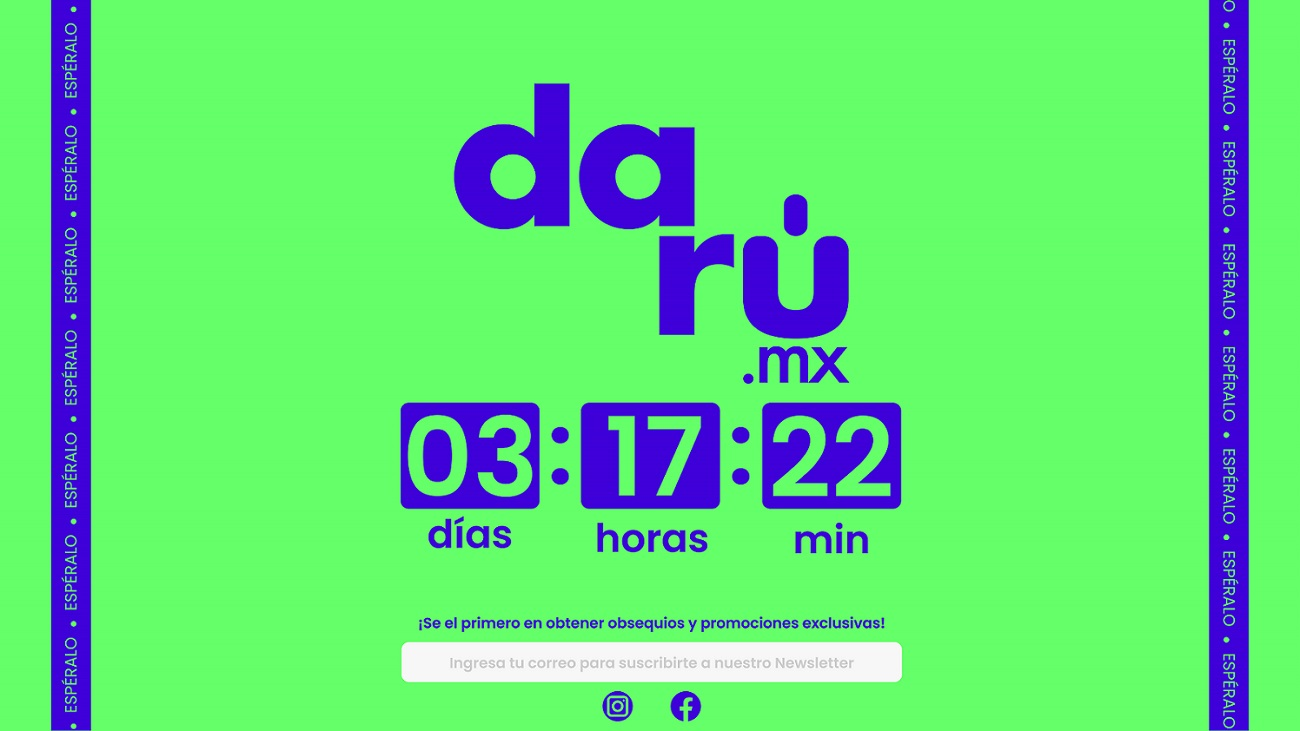
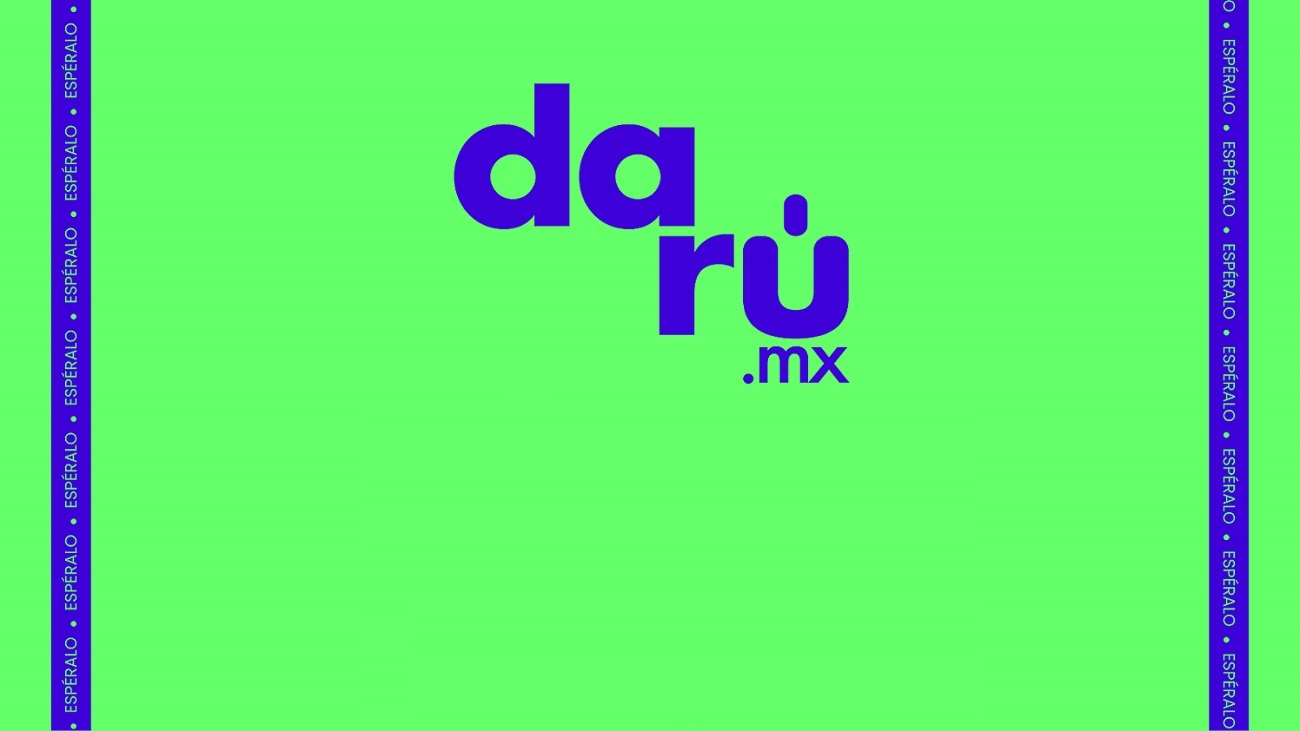
Shop: Comming Soon

Changed region(s): [[0.3077, 0.5417, 0.7077, 0.7825], [0.3077, 0.8427, 0.7077, 0.9932]]

diff --git a/src/app/@pages/others/coming-soon/coming-soon.component.html b/src/app/@pages/others/coming-soon/coming-soon.component.html
@@ -1,61 +1,62 @@
-<!-- <div class="soon" style="background-image: url(assets/images/backgrounds/daru_espera_1.jpg)"> -->
+<div class="soon" style="background-image: url(assets/images/backgrounds/daru_espera_2.jpg)">
 
-<div class="soon">
-  <div class="container">
-    <div class="row">
-      <div class="col-md-12 col-lg-12">
-        <div class="soon-content text-center">
-          <div class="soon-content-wrapper">
-            <br class="mt-2 mb-3 mt-md-3">
-            <br class="mt-2 mb-3 mt-md-3">
-            <br class="mt-2 mb-3 mt-md-3">
-            <br class="mt-2 mb-3 mt-md-3">
-            <br class="mt-2 mb-3 mt-md-3">
-            <br class="mt-2 mb-3 mt-md-3">
-
-
-            <img src="assets/images/logo-icon.png" alt="Logo" class="soon-logo mx-auto">
-            <!-- <h1 class="soon-title">Proximamente...</h1> -->
-            <app-count-down until="2023-05-01" format="DHMS" wrap="coming-countdown countdown-separator">
-            </app-count-down>
-
-            <br class="mt-2 mb-3 mt-md-3">
-            <br class="mt-2 mb-3 mt-md-3">
-            <br class="mt-2 mb-3 mt-md-3">
-            <br class="mt-2 mb-3 mt-md-3">
-            <!-- <p>We are currently working on an awesome new site. Stay tuned for more information.
+  <div class="soon">
+    <div class="container">
+      <div class="row">
+        <div class="col-md-12 col-lg-12">
+          <div class="soon-content text-center">
+            <div class="soon-content-wrapper">
+              <br class="mt-2 mb-3 mt-md-3">
+              <br class="mt-2 mb-3 mt-md-3">
+              <br class="mt-2 mb-3 mt-md-3">
+              <br class="mt-2 mb-3 mt-md-3">
+              <br class="mt-2 mb-3 mt-md-3">
+              <br class="mt-2 mb-3 mt-md-3">
+              <br class="mt-2 mb-3 mt-md-3">
+              <br class="mt-2 mb-3 mt-md-3">
+              <br class="mt-2 mb-3 mt-md-3">
+              <br class="mt-2 mb-3 mt-md-3">
+              <br class="mt-2 mb-3 mt-md-3">
+              <!-- <img src="assets/images/logo-icon.png" alt="Logo" class="soon-logo mx-auto">
+            <h1 class="soon-title">Proximamente...</h1> -->
+              <app-count-down until="2023-10-01" format="DHMS" wrap="coming-countdown countdown-separator">
+              </app-count-down>
+              <br class="mt-2 mb-3 mt-md-3">
+              <!-- <p>We are currently working on an awesome new site. Stay tuned for more information.
               Subscribe to our newsletter to stay updated on our progress.</p> -->
-            <form action="#">
-              <div class="input-group mb-5">
-                <input type="email" class="form-control bg-transparent"
-                  placeholder="Tu direccion de Correo Electr&oacute;nico" required>
-                <div class="input-group-append">
-                  <button class="btn btn-outline-primary-2" type="submit">
-                    <span>Subscribete!!!</span>
-                    <i class="icon-long-arrow-right"></i>
-                  </button>
+              <form (ngSubmit)="onSubmit()" [formGroup]="formData">
+                <div class="input-group mb-5">
+                  <input type="email" name="email" formControlName="email" class="form-control bg-transparent"
+                    placeholder="Correo Electr&oacute;nico" required>
+                  <div class="input-group-append">
+                    <button class="btn btn-success btn-round" type="submit" [disabled]="!formData.valid">
+                      <span>Subscribete!!!</span>
+                      <i class="icon-long-arrow-right"></i>
+                    </button>
+                  </div>
                 </div>
+              </form>
+              <div class="social-icons justify-content-center mb-0">
+                <a class="social-icon" style="background-color: #3b5998; color: white;" href="javascript:;">
+                  <i class="icon-facebook-f"></i>
+                </a>
+                <a class="social-icon" style="background-color: #55acee; color: white;" href="javascript:;"><i
+                    class="icon-twitter"></i>
+                </a>
+                <a class="social-icon" style="background-color: #ac2bac; color: white;" href="javascript:;"><i
+                    class="icon-instagram"></i>
+                </a>
+                <a class="social-icon" style="background-color: #ed302f; color: white;" href="javascript:;"><i
+                    class="icon-youtube"></i>
+                </a>
+                <a class="social-icon" style="background-color: #c61118; color: white;" href="javascript:;"><i
+                    class="icon-pinterest"></i>
+                </a>
               </div>
-            </form>
-            <div class="social-icons justify-content-center mb-0">
-              <a class="social-icon" style="background-color: #3b5998; color: white;" href="javascript:;">
-                <i class="icon-facebook-f"></i>
-              </a>
-              <a class="social-icon" style="background-color: #55acee; color: white;" href="javascript:;"><i class="icon-twitter"></i>
-              </a>
-              <a class="social-icon" style="background-color: #ac2bac; color: white;" href="javascript:;"><i
-                  class="icon-instagram"></i>
-              </a>
-              <a class="social-icon" style="background-color: #ed302f; color: white;" href="javascript:;"><i class="icon-youtube"></i>
-              </a>
-              <a class="social-icon" style="background-color: #c61118; color: white;" href="javascript:;"><i
-                  class="icon-pinterest"></i>
-              </a>
             </div>
           </div>
         </div>
       </div>
     </div>
+    <!-- <div class="soon-bg bg-image"></div> -->
   </div>
-  <!-- <div class="soon-bg bg-image"></div> -->
-</div>

diff --git a/src/app/@pages/others/coming-soon/coming-soon.component.ts b/src/app/@pages/others/coming-soon/coming-soon.component.ts
@@ -1,17 +1,66 @@
 import { Component, OnInit } from '@angular/core';
+import { FormBuilder, FormGroup, Validators } from '@angular/forms';
+import { IMail } from '@core/interfaces/mail.interface';
+import { MailService } from '@core/services/mail.service';
+import { infoEventAlert } from '@shared/alert/alerts';
+import { TYPE_ALERT } from '@shared/alert/values.config';
 
 @Component({
-	selector: 'pages-coming-soon',
-	templateUrl: './coming-soon.component.html',
-	styleUrls: ['./coming-soon.component.scss']
+  selector: 'pages-coming-soon',
+  templateUrl: './coming-soon.component.html',
+  styleUrls: ['./coming-soon.component.scss']
 })
 
 export class ComingSoonPageComponent implements OnInit {
+  formData: FormGroup;
 
-	constructor() {
+  constructor(
+    private formBuilder: FormBuilder,
+    private mailService: MailService
+  ) {
 
-	}
+  }
 
-	ngOnInit(): void {
-	}
+  ngOnInit(): void {
+    this.formData = this.formBuilder.group({
+      email: ['', [Validators.required, Validators.email, this.customEmailValidator]]
+    });
+  }
+
+  customEmailValidator(control) {
+    const email = control.value;
+    if (!email) {
+      return null;
+    }
+    const regex = /^[a-zA-Z0-9._%+-]+@[a-zA-Z0-9.-]+\.[a-zA-Z]{2,4}$/;
+    return regex.test(email) ? null : { invalidEmail: true };
+  }
+
+  onSubmit() {
+    if (!this.formData.valid) {
+      infoEventAlert('Es necesario un correo electrónico.', '');
+      return;
+    }
+
+    const email = this.formData.controls.email.value;
+    const receiptEmailInt = 'marketplace@daru.mx';
+    const subjectInt = 'Dar de Alta a Usuario';
+    const html = `Agregar este correo ${email} a la lista de contactos`;
+
+    const mail: IMail = {
+      to: receiptEmailInt,
+      subject: subjectInt,
+      html: html
+    };
+
+    this.mailService.send(mail).subscribe(
+      (response) => {
+        infoEventAlert('Correo electrónico enviado con éxito:', '', TYPE_ALERT.SUCCESS);
+        this.formData.controls.email.setValue('');
+      },
+      (error) => {
+        infoEventAlert('Error al enviar el correo electrónico:', '', TYPE_ALERT.ERROR);
+      }
+    );
+  }
 }

diff --git a/src/app/app-routing.module.ts b/src/app/app-routing.module.ts
@@ -16,6 +16,12 @@ const routes: Routes = [
     path: 'soon',
     component: ComingSoonPageComponent
   },
+  // Quitar
+  {
+    path: '',
+    component: ComingSoonPageComponent
+  },
+  // Quitar
   {
     path: '',
     component: LayoutComponent,

diff --git a/src/app/@shared/components/count-down/count-down.component.scss b/src/app/@shared/components/count-down/count-down.component.scss
@@ -1,0 +1,7 @@
+.countdown-period {
+  color: white !important;
+}
+
+.countdown-amount {
+  color: white !important;
+}
